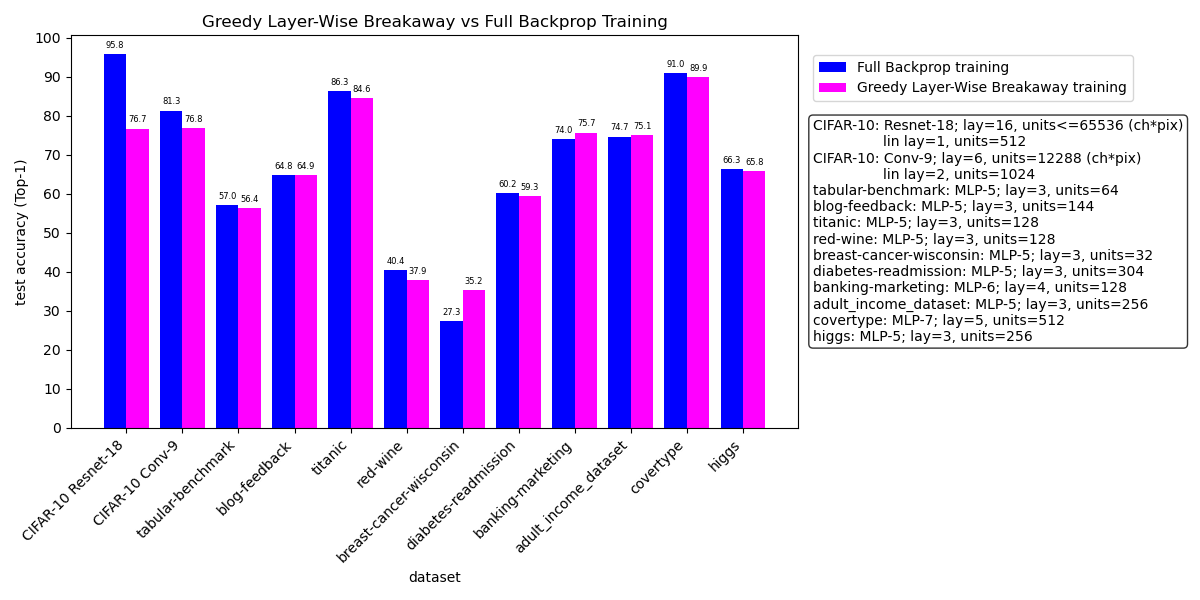
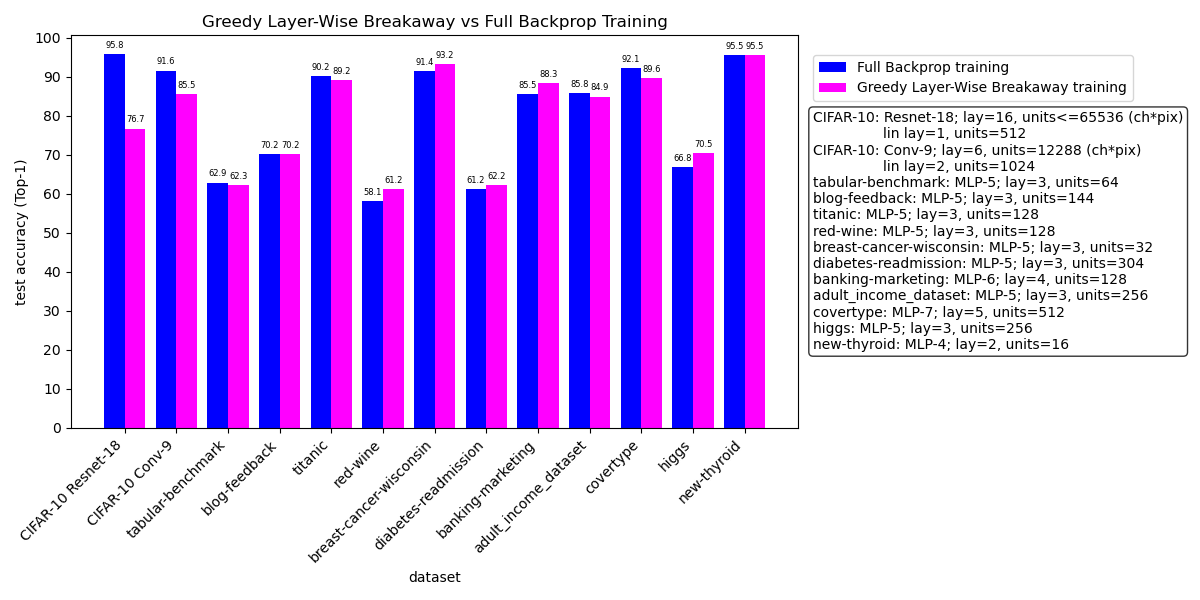
patch ANNpt_main:processDataset - update totalAccuracy before adjusting accuracy for running average update graph breakawayBackpropTestAccuracy

diff --git a/AEANNpt/ANNpt_globalDefs.py b/AEANNpt/ANNpt_globalDefs.py
@@ -169,17 +169,17 @@ dataloaderRepeatSampler = False
 dataloaderRepeatLoop = False		#legacy (depreciate)
 
 if(useTabularDataset):
-	#datasetName = 'tabular-benchmark'	#expected test accuracy: ~56%
-	#datasetName = 'blog-feedback'	#expected test accuracy: ~65%
-	datasetName = 'titanic'	#expected test accuracy: ~85%
-	#datasetName = 'red-wine'	#expected test accuracy: ~35%
-	#datasetName = 'breast-cancer-wisconsin'	#expected test accuracy: ~33%
-	#datasetName = 'diabetes-readmission'	#expected test accuracy: ~60%
-	#datasetName = 'banking-marketing'	#expected test accuracy: ~75%	#third party benchmark accuracy: ~79.1%
-	#datasetName = 'adult_income_dataset'	#expected test accuracy: ~75% 	#third party benchmark accuracy: ~85.8%
-	#datasetName = 'covertype'	#expected test accuracy: ~%93 	#third party benchmark accuracy: ~97.1%
-	#datasetName = 'higgs'	#expected test accuracy: ~65%	#third party benchmark accuracy: 73.8%	#https://archive.ics.uci.edu/dataset/280/higgs
-	#datasetName = 'new-thyroid'	#expected test accuracy: ~50%	https://archive.ics.uci.edu/dataset/102/thyroid+disease
+	#datasetName = 'tabular-benchmark'	#expected test accuracy: ~63%
+	#datasetName = 'blog-feedback'	#expected test accuracy: ~70%
+	datasetName = 'titanic'	#expected test accuracy: ~90%
+	#datasetName = 'red-wine'	#expected test accuracy: ~58%
+	#datasetName = 'breast-cancer-wisconsin'	#expected test accuracy: ~91%
+	#datasetName = 'diabetes-readmission'	#expected test accuracy: ~61%
+	#datasetName = 'banking-marketing'	#expected test accuracy: ~85	#third party benchmark accuracy: ~79.1%
+	#datasetName = 'adult_income_dataset'	#expected test accuracy: ~86% 	#third party benchmark accuracy: ~85.8%
+	#datasetName = 'covertype'	#expected test accuracy: ~%92 (10 epochs) 	#third party benchmark accuracy: ~97.1%
+	#datasetName = 'higgs'	#expected test accuracy: ~70%	#third party benchmark accuracy: 73.8%	#https://archive.ics.uci.edu/dataset/280/higgs
+	#datasetName = 'new-thyroid'	#expected test accuracy: ~95%	https://archive.ics.uci.edu/dataset/102/thyroid+disease
 	if(datasetName == 'tabular-benchmark'):
 		datasetNameFull = 'inria-soda/tabular-benchmark'
 		classFieldName = 'class'
@@ -319,11 +319,11 @@ if(useTabularDataset):
 		datasetLocalFile = True	
 		datasetNormalise = True
 		datasetConvertClassValues = True
-		learningRate = 0.005	#default: 0.001	#orig: 0.005
+		learningRate = 0.005	#default: 0.005
 		numberOfLayers = 3	#default: 3	#orig: 2, 4
 		hiddenLayerSize = 16	#default: 16	#orig: 4, 10
 		#batchSize = 1
-		trainNumberOfEpochs = 1	#default: 1
+		trainNumberOfEpochs = 100	#default: 100
 		datasetRepeat = True	#enable better sampling by dataloader with high batchSize (required if batchSize ~= datasetSize)
 		if(datasetRepeat):
 			datasetRepeatSize = 100	#for batchSize ~= 64
@@ -344,7 +344,7 @@ if(useTabularDataset):
 			dataloaderRepeatSamplerCustom = False	#no tqdm visualisation
 			assert not dataloaderShuffle	#dataloaderShuffle is not supported by dataloaderRepeatSampler
 elif(useImageDataset):
-	#currently assume CIFAR-10 dataset;
+	#currently assume CIFAR-10 dataset	#expected test accuracy: ~91%
 	warmupEpochs = 5 	#default: 5	#orig: 0
 	learningRate = 0.001	#default: 0.001 (or 0.01)	#orig: 0.005
 	momentum = 0.9     #default: 0.9	#orig: 0.0

diff --git a/graph/breakawayBackpropTestAccuracy.py b/graph/breakawayBackpropTestAccuracy.py
@@ -1,10 +1,10 @@
 import matplotlib.pyplot as plt
 import numpy as np
 
-y1_values = [95.82, 81.33, 57.00, 64.76, 86.33, 40.40, 27.30, 60.22, 74.00, 74.67, 91.00, 66.33]
-y2_values = [76.69, 76.78, 56.41, 64.86, 84.59, 37.85, 35.21, 59.34, 75.68, 75.12, 89.89, 65.75]
+y1_values = [95.82, 91.59, 62.86, 70.17, 90.15, 58.13, 91.41, 61.23, 85.54, 85.77, 92.12, 66.85, 95.45]
+y2_values = [76.69, 85.46, 62.26, 70.23, 89.23, 61.25, 93.16, 62.18, 88.33, 84.91, 89.64, 70.48, 95.45]
 
-group_labels = ["CIFAR-10 Resnet-18", "CIFAR-10 Conv-9", "tabular-benchmark", "blog-feedback", "titanic", "red-wine", "breast-cancer-wisconsin", "diabetes-readmission", "banking-marketing", "adult_income_dataset", "covertype", "higgs"]
+group_labels = ["CIFAR-10 Resnet-18", "CIFAR-10 Conv-9", "tabular-benchmark", "blog-feedback", "titanic", "red-wine", "breast-cancer-wisconsin", "diabetes-readmission", "banking-marketing", "adult_income_dataset", "covertype", "higgs", "new-thyroid"]
 
 group_descriptions = [
 	"CIFAR-10: Resnet-18; lay=16, units<=65536 (ch*pix)\n                lin lay=1, units=512",
@@ -19,6 +19,7 @@ group_descriptions = [
 	"adult_income_dataset: MLP-5; lay=3, units=256",
 	"covertype: MLP-7; lay=5, units=512",
 	"higgs: MLP-5; lay=3, units=256",
+	"new-thyroid: MLP-4; lay=2, units=16",
 ]
 
 # Convert to arrays

diff --git a/AEANNpt/ANNpt_main.py b/AEANNpt/ANNpt_main.py
@@ -170,13 +170,13 @@ def processDataset(trainOrTest, dataset, model):
 					else:
 						loss, accuracy = testBatch(batchIndex, batch, model, l)
 
-					if(printAccuracyRunningAverage):
-						(loss, accuracy) = (runningLoss, runningAccuracy) = (runningLoss/runningAverageBatches*(runningAverageBatches-1)+(loss/runningAverageBatches), runningAccuracy/runningAverageBatches*(runningAverageBatches-1)+(accuracy/runningAverageBatches))
-					
 					if(l == maxLayer-1):
 						if(not trainOrTest):
 							totalAccuracy = totalAccuracy + accuracy
 							totalAccuracyCount += 1
+							
+					if(printAccuracyRunningAverage):
+						(loss, accuracy) = (runningLoss, runningAccuracy) = (runningLoss/runningAverageBatches*(runningAverageBatches-1)+(loss/runningAverageBatches), runningAccuracy/runningAverageBatches*(runningAverageBatches-1)+(accuracy/runningAverageBatches))
 					
 					loop.set_description(f'Epoch {epoch}')
 					loop.set_postfix(batchIndex=batchIndex, loss=loss, accuracy=accuracy)
